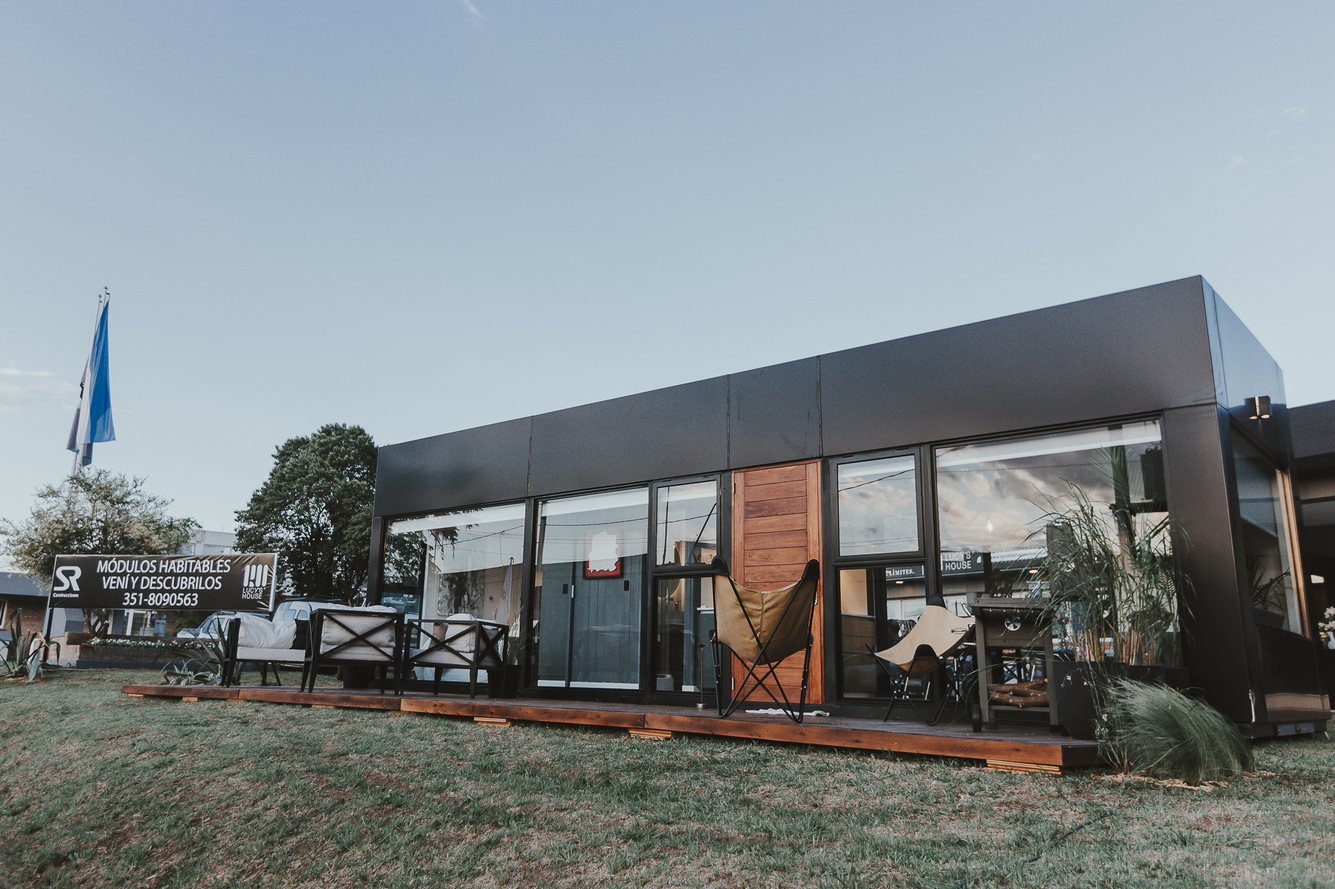
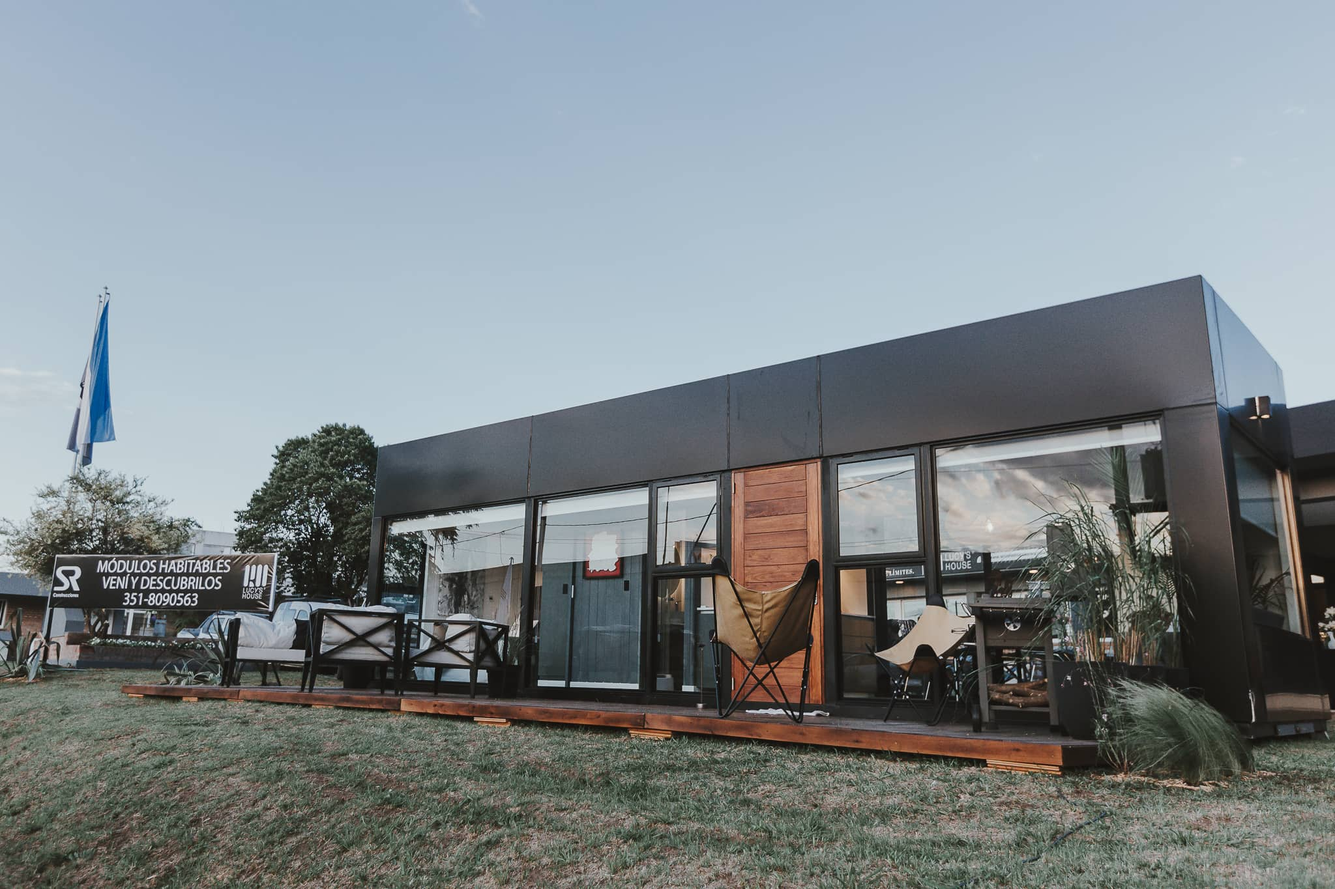
actualizacion carrusel

diff --git a/lucyshouse.html b/lucyshouse.html
@@ -113,13 +113,16 @@
 						<div id="carouselExampleControls" class="carousel slide" data-bs-ride="carousel">
 						<div class="carousel-inner">
 						  <div class="carousel-item active">
-							<img src="img/DSC_0295-DIAGONAL.JPG" class="d-block w-100" alt="...">
-						  </div>
-						  <div class="carousel-item">
-							<img src="img/DSC_0299-dorso.JPG" class="d-block w-100" alt="...">
-						  </div>
-						  <div class="carousel-item">
 							<img src="img/Showroom_frente.JPG" class="d-block w-100" alt="...">
+						  </div>
+						  <div class="carousel-item">
+							<img src="img/cuarto.jpeg" class="d-block w-100" alt="...">
+						  </div>
+						  <div class="carousel-item">
+							<img src="img/baño.jpeg" class="d-block w-100" alt="...">
+						  </div>
+						  <div class="carousel-item">
+							<img src="img/vanitory.jpeg" class="d-block w-100" alt="...">
 						  </div>
 						  <div class="carousel-item">
 							<img src="img/lucyspremiumcocina.jpeg" class="d-block w-100" alt="...">
